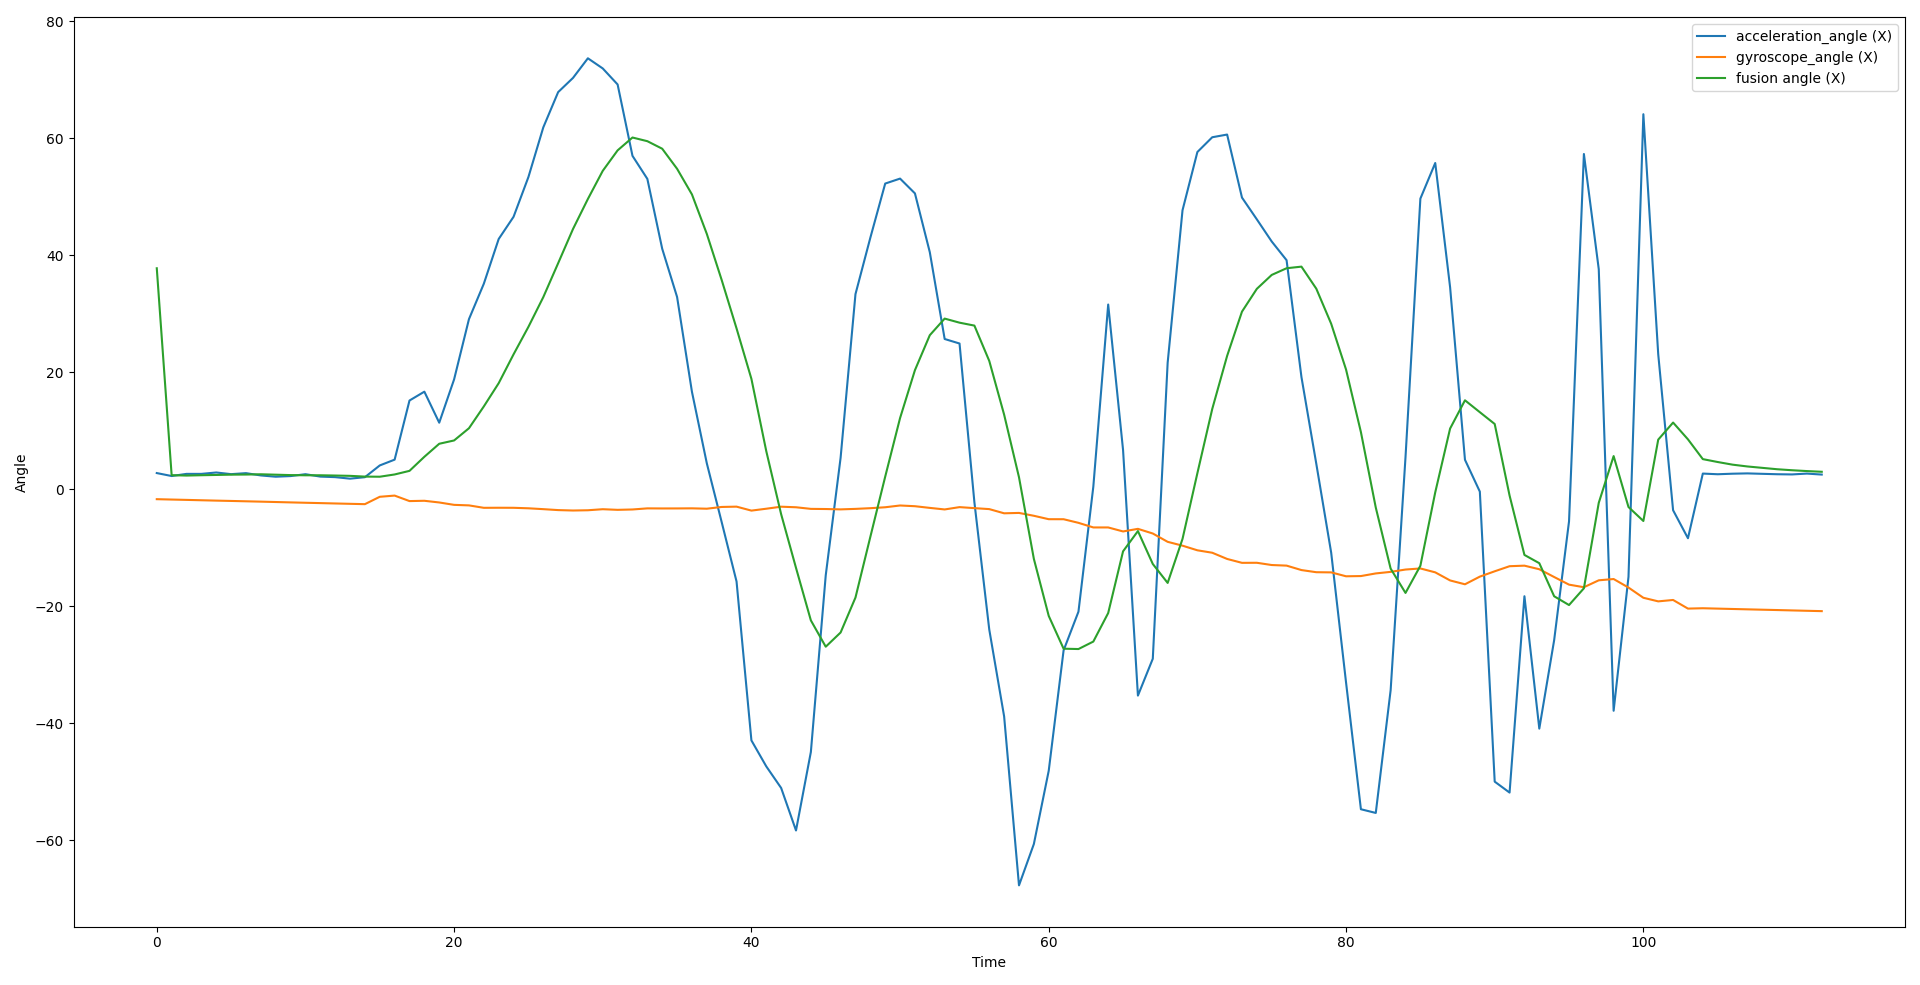
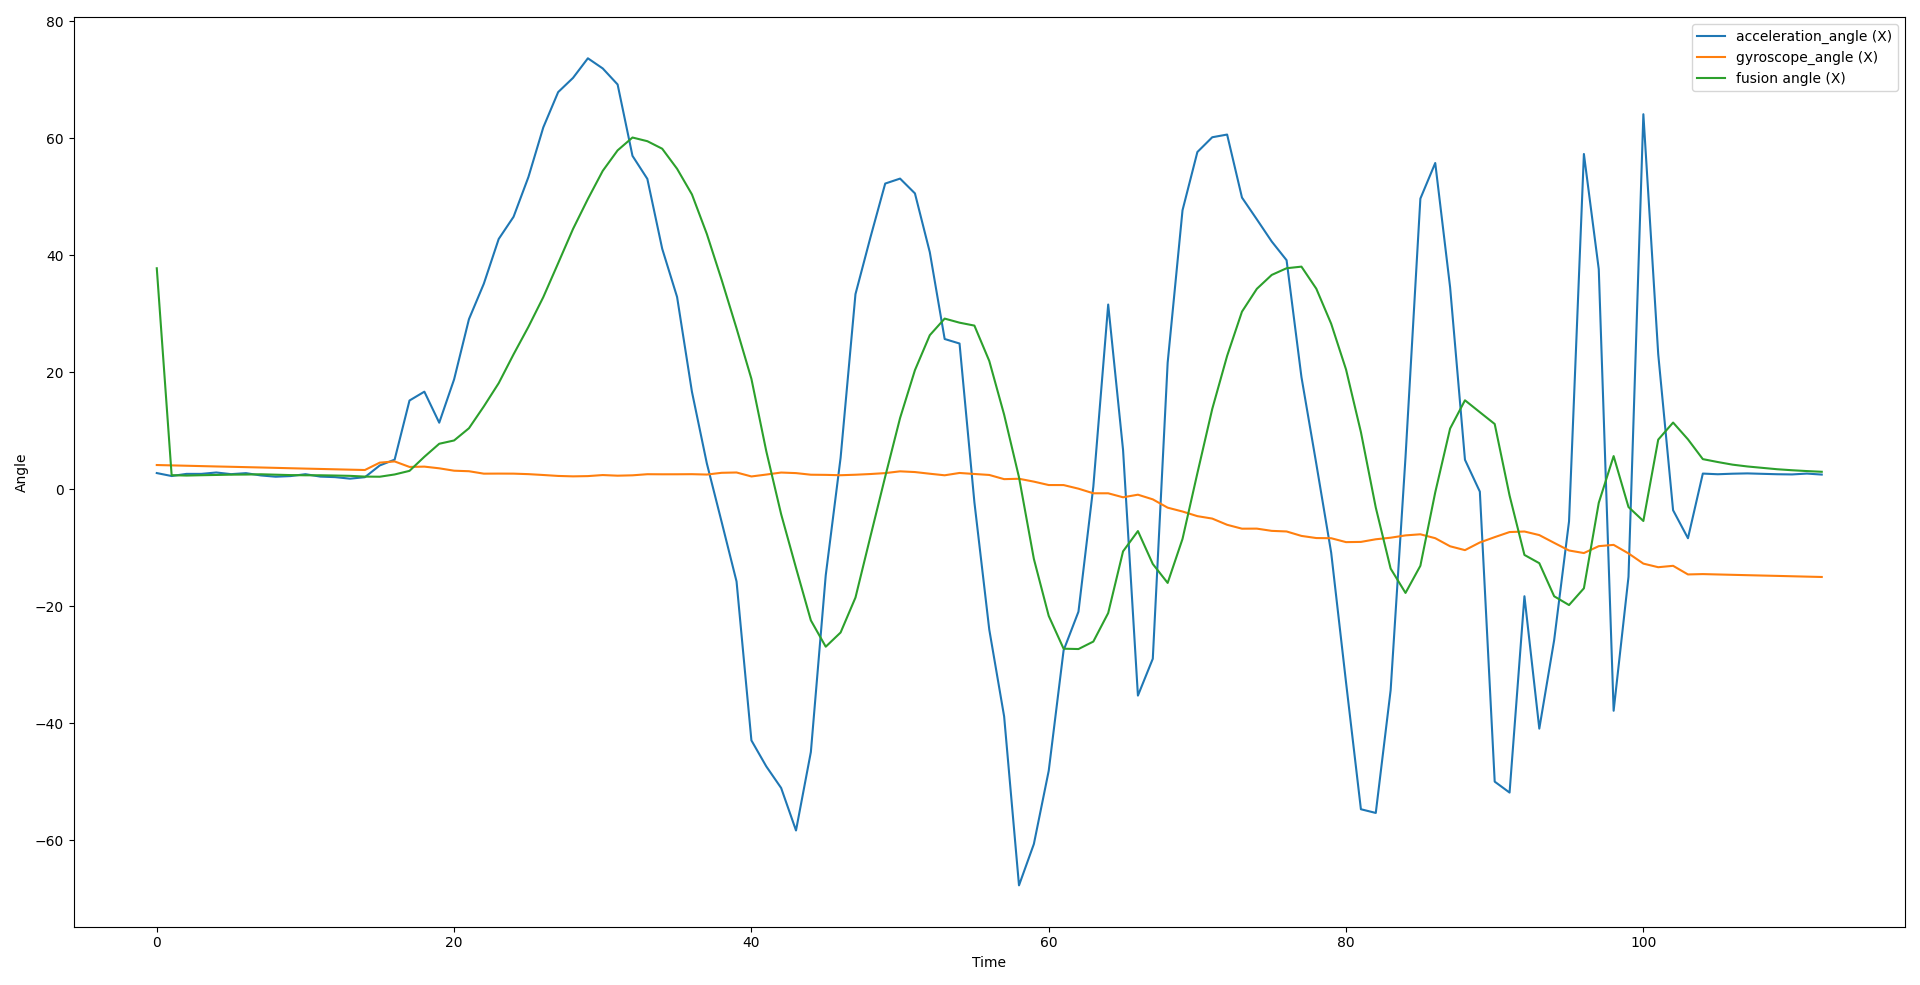
Added plot outputs and updated plotting script

Changed region(s): [[0.8438, 0.5482, 0.875, 0.5787], [0.75, 0.5787, 0.7812, 0.6091]]

diff --git a/parse_hardware_output.py b/parse_hardware_output.py
@@ -208,5 +208,39 @@ ax[2].set_ylabel("Angle")
 ax[2].legend(fancybox=True)
 ax[2].set_title("Z Axis")
 
+fig_0, ax_0 = plt.subplots(nrows=2, ncols=2)
+ax_0[0][0].plot(accel_x_1, label="acceleration_angle (X)")
+ax_0[0][0].plot(gyro_x_1, label="gyroscope_angle (X)")
+ax_0[0][0].plot(fused_angle_x, label="fusion angle (X)")
+ax_0[0][0].set_xlabel("Time")
+ax_0[0][0].set_ylabel("Angle")
+ax_0[0][0].legend(fancybox=True)
+ax_0[0][0].set_title("IMU Sensor 1")
+
+ax_0[0][1].plot(accel_x_2, label="acceleration_angle (X)")
+ax_0[0][1].plot(gyro_x_2, label="gyroscope_angle (X)")
+ax_0[0][1].plot(fused_angle_x, label="fusion angle (X)")
+ax_0[0][1].set_xlabel("Time")
+ax_0[0][1].set_ylabel("Angle")
+ax_0[0][1].legend(fancybox=True)
+ax_0[0][1].set_title("IMU Sensor 2")
+
+ax_0[1][0].plot(accel_x_3, label="acceleration_angle (X)")
+ax_0[1][0].plot(gyro_x_3, label="gyroscope_angle (X)")
+ax_0[1][0].plot(fused_angle_x, label="fusion angle (X)")
+ax_0[1][0].set_xlabel("Time")
+ax_0[1][0].set_ylabel("Angle")
+ax_0[1][0].legend(fancybox=True)
+ax_0[1][0].set_title("IMU Sensor 3")
+
+ax_0[1][1].plot(majority_accel_x, label="acceleration_angle (X)")
+ax_0[1][1].plot(majority_gyro_x, label="gyroscope_angle (X)")
+ax_0[1][1].plot(fused_angle_x, label="fusion angle (X)")
+ax_0[1][1].set_xlabel("Time")
+ax_0[1][1].set_ylabel("Angle")
+ax_0[1][1].legend(fancybox=True)
+ax_0[1][1].set_title("Majority Vote")
+fig_0.tight_layout()
+
 fig.tight_layout()
 plt.show()
